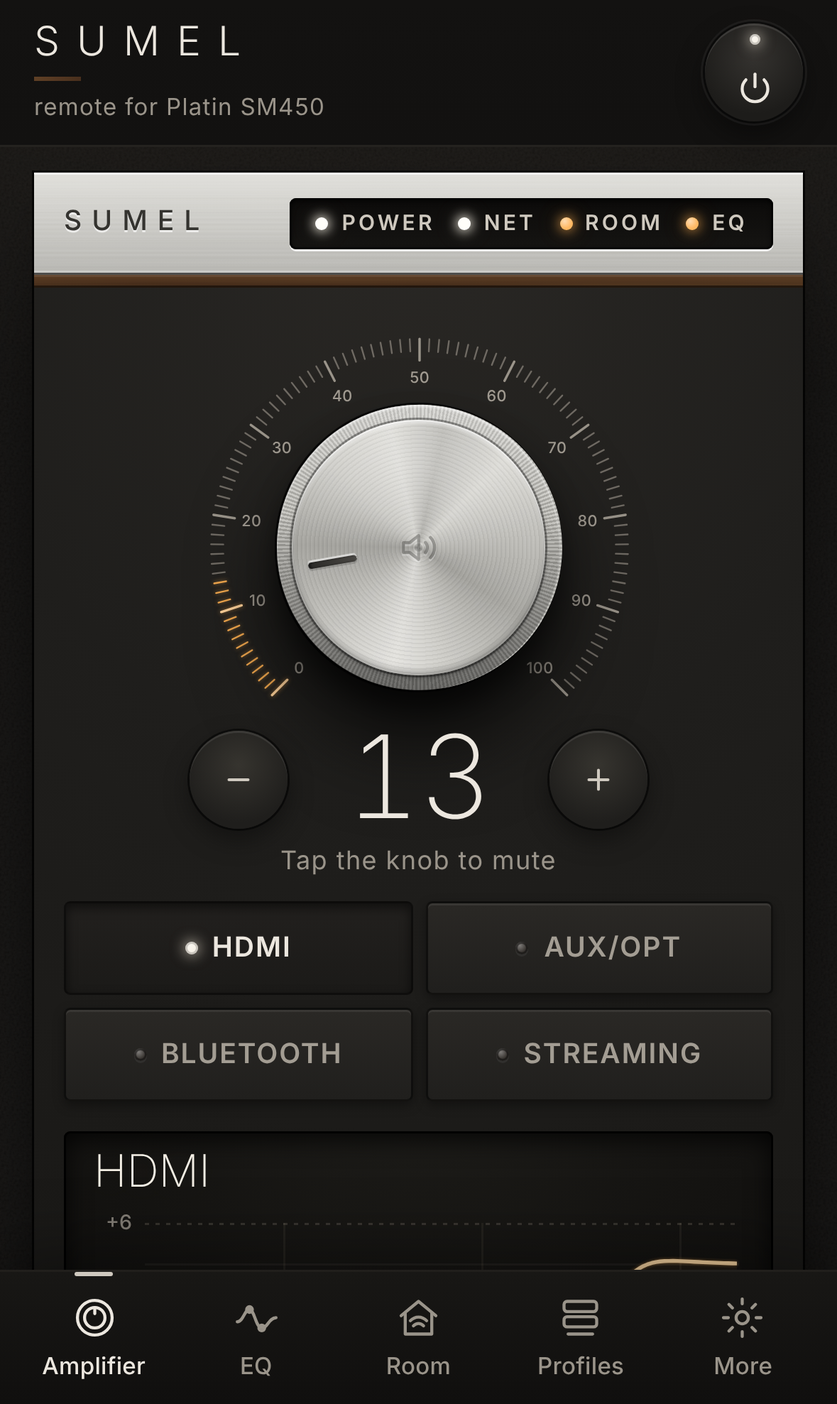
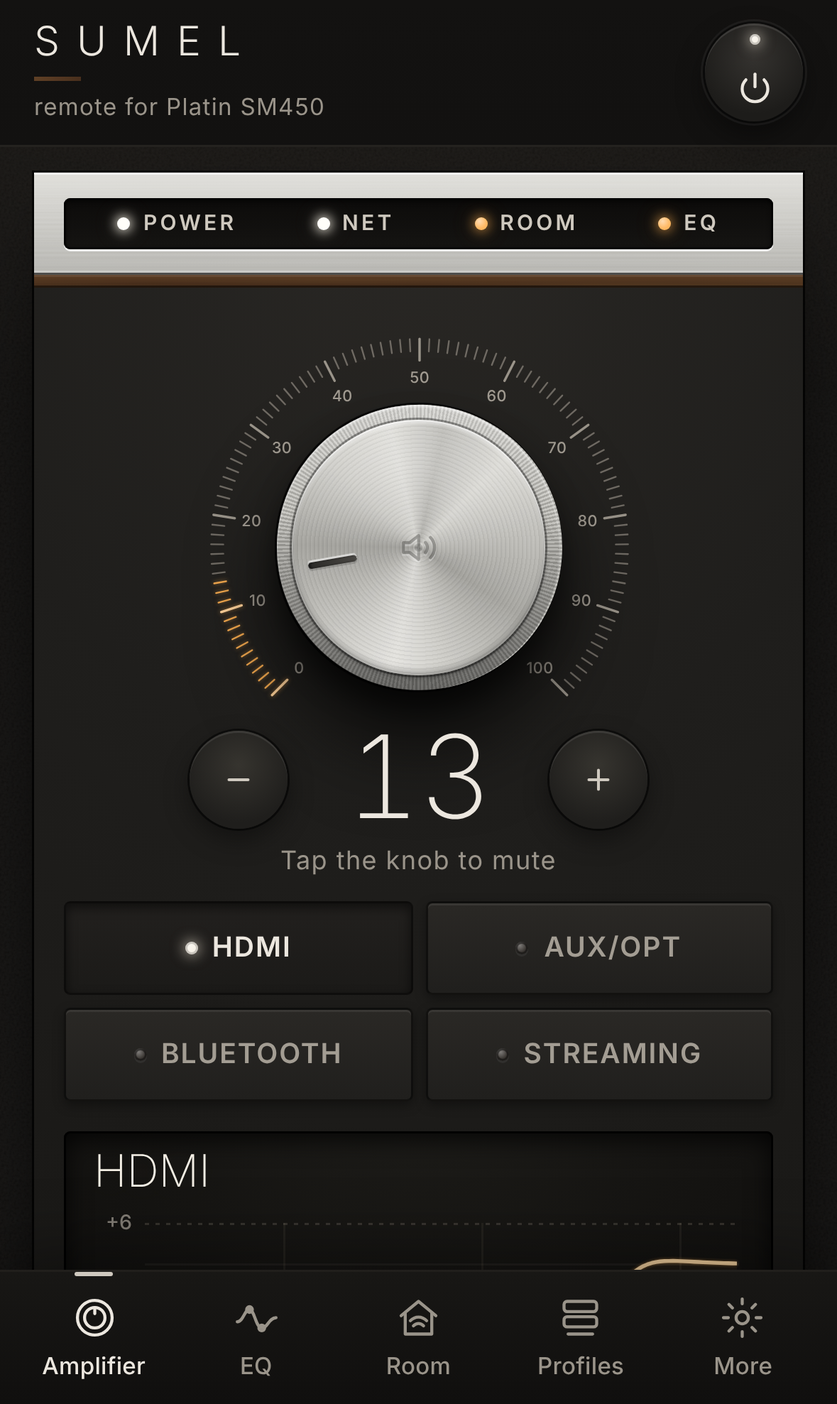
SUMEL 1.1.0: a tidier look
- Amplifier: equal-width profile buttons with All last, compact sound buttons
- Phone: transport buttons match the input buttons; the strip shows only the lamps
- Profiles: one row per profile; Room: one card with a single switch
- EQ: tips and keyboard behind a small link; More: settings first, Help last

Claude-Session: https://claude.ai/code/session_015qg7weUaN48gBux5nf1eYy

Changed region(s): [[0.0611, 0.1234, 0.3664, 0.1851], [0.3969, 0.1543, 0.8855, 0.1851]]

diff --git a/lemus_remote/static/index.html b/lemus_remote/static/index.html
@@ -128,8 +128,6 @@ main { max-width:1320px; margin:0 auto; padding:16px calc(16px + var(--safe-r)) 
 .card > h2::after, .sect::after { content:""; flex:1; height:1px; background:linear-gradient(90deg, var(--line-2), transparent); }
 .card > h2 .right, .sect .right { order:3; margin-left:auto; letter-spacing:.01em; text-transform:none; font-weight:500; }
 /* språkkortet: overskrift og velger på én linje, så kortet blir lavt */
-#langCard { display:flex; align-items:center; flex-wrap:wrap; gap:10px 14px; padding-top:12px; padding-bottom:12px; }
-#langCard > h2 { margin:0; flex:1 1 160px; }
 .page-title { margin:4px 2px 16px; }
 .page-title h1 { font-family:var(--display); font-weight:300; font-size:26px; letter-spacing:.01em; margin:0; }
 .page-title p { color:var(--muted); margin:4px 0 0; font-size:14px; max-width:62ch; }
@@ -667,9 +665,7 @@ body.locked .need-awake { opacity:.5; }
   /* ferdige profiler: to kolonner med samme rader som «Mine profiler» */
   .mine.cols { display:grid; grid-template-columns:1fr 1fr; column-gap:36px; align-items:start; }
   .mine.cols .mine-item:nth-child(2) { border-top:0; padding-top:0; }
-  .room-grid { grid-template-columns:1fr 1fr; gap:20px; grid-template-areas:"resp resp" "status data"; }
-  .room-grid > #roomResp { grid-area:resp; } .room-grid > #roomStatus { grid-area:status; }
-  .room-grid > #roomData { grid-area:data; }
+  .room-grid { gap:20px; }
   .room-grid #roomCanvas { height:260px !important; }
 }
 @media (min-width: 1000px) and (max-width: 1239px) {
@@ -866,6 +862,56 @@ html[data-front="alu"] .deck { padding:0; }
   .fp-ctrl .inputs .sel { display:grid; grid-auto-flow:column; grid-auto-columns:1fr; }
   .fp-ctrl .inputs .sel .src { justify-content:center; }
 }
+/* ---------------- Opprydding 1.1: jevne knapperader, færre gjentakelser */
+/* Profilknappene fyller brønnen i like brede kolonner, med «Alle» som siste knapp */
+.deck .chips { display:grid; grid-template-columns:repeat(auto-fit, minmax(92px, 1fr)); }
+.deck .chip { justify-content:center; min-width:0; }
+.deck .chip.all { color:var(--fg-2); }
+.deck .togs .tog { justify-content:center; }
+.deck .togs .tog .t { flex:none; }
+/* Rom: ett kort med bryter og «Les på nytt» på samme rad; lampen viser av/på */
+#langCard .seg { align-self:flex-start; }
+.bcount { align-self:center; margin-left:4px; }
+.room-row { display:flex; align-items:center; gap:12px; flex-wrap:wrap; }
+.room-row .tog { flex:1 1 280px; width:auto; }
+#togRoom2 .state { display:none; }
+/* Profiler: én rad per profil med knappene til høyre */
+.mine-item { grid-template-columns:96px minmax(0, 1fr) auto; }
+.mine-item .acts { grid-column:auto; justify-content:flex-end; flex-wrap:nowrap; }
+.mine-item .more { grid-column:1 / -1; justify-content:flex-end; padding:0; }
+.mine-item .more :is([data-a="del"], [data-a="reset"]) { margin-left:0; }
+.active-line .lbl { margin-right:6px; }
+/* Tips og tastatur: lukket som standard */
+details.tips { margin-top:10px; }
+details.tips > summary { cursor:pointer; font-size:12.5px; color:var(--faint); list-style:none; display:inline-flex; align-items:center; gap:6px; min-height:28px; }
+details.tips > summary::-webkit-details-marker { display:none; }
+details.tips > summary::before { content:"?"; width:16px; height:16px; border-radius:50%; display:grid; place-items:center; font-size:11px; font-weight:600; border:1px solid var(--line-2); color:var(--muted); }
+details.tips[open] > summary { color:var(--fg-2); }
+details.tips .hint { margin-top:4px; }
+@media (min-width: 1000px) {
+  .togs { grid-template-columns:repeat(2, 176px); }
+}
+@media (max-width: 999px) {
+  /* mobil og nettbrett: avspillingsknappene i samme stil som inngangsknappene */
+  .fp-ctrl .transport { gap:6px; padding:3px; border-radius:var(--radius-s); background:var(--well); border:1px solid var(--line); box-shadow:inset 0 1px 3px rgba(0,0,0,.6); width:100%; }
+  .fp-ctrl .transport .round, .fp-ctrl .transport .round.main { flex:1 1 0; width:auto; height:44px; border-radius:var(--radius-xs);
+    border:1px solid rgba(0,0,0,.55); background:linear-gradient(180deg, #2a2825, #201f1d); color:var(--muted);
+    box-shadow:inset 0 1px 0 rgba(255,255,255,.07), 0 2px 5px rgba(0,0,0,.35); }
+  .fp-ctrl .transport .round:active:not(:disabled) { background:linear-gradient(180deg, #22201e, #1b1a18); box-shadow:inset 0 2px 5px rgba(0,0,0,.55); }
+  .deck .chips { grid-template-columns:repeat(3, minmax(0, 1fr)); }
+  .deck .chip { font-size:10.5px; letter-spacing:.06em; padding:0 6px; white-space:nowrap; }
+  .deck .togs { grid-template-columns:1fr 1fr; }
+  .deck .tog { padding:0 8px; }
+  .deck .tog .t b { font-size:10.5px; letter-spacing:.08em; white-space:nowrap; overflow:hidden; text-overflow:ellipsis; }
+}
+@media (max-width: 520px) {
+  /* telefon: «SUMEL» står allerede øverst i appen – listen viser bare lampene, i full bredde */
+  html[data-front="alu"] .fp-mark { display:none; }
+  html[data-front="alu"] .fp-lamps { flex:1; margin-left:0; justify-content:space-around; }
+  .mine-item { grid-template-columns:72px minmax(0, 1fr) auto; gap:10px; }
+  .mine-item canvas { width:72px; height:40px; }
+  .mine-item .sub { display:-webkit-box; -webkit-line-clamp:2; -webkit-box-orient:vertical; overflow:hidden; }
+}
 </style>
 </head>
 <body>
@@ -966,7 +1012,6 @@ html[data-front="alu"] .deck { padding:0; }
     <section class="deck-sec" aria-label="Profil" data-i18n-aria="amp.profile">
       <h2 class="deck-h" data-i18n="amp.profile">Profil</h2>
       <div class="chips" id="quickProfiles"></div>
-      <button class="btn ghost sm deck-all" data-goto="profiles" data-i18n="amp.all">Alle</button>
     </section>
   </div>
 </section>
@@ -998,7 +1043,7 @@ html[data-front="alu"] .deck { padding:0; }
         <div class="stepper"><button data-qs="-1" aria-label="Ned" data-i18n-aria="eq.down">−</button><output id="qVal" aria-live="polite"></output><button data-qs="1" aria-label="Opp" data-i18n-aria="eq.up">+</button></div>
       </div>
       <div class="bandlist" id="bandlist" role="group" aria-label="EQ-punkter" data-i18n-aria="eq.points"></div>
-      <div class="hint" id="eqHint"><span class="kbd-only" data-i18n-html="eq.hintKbd">Dra punktene. Dobbeltklikk på en tom plass for et nytt punkt. Tastatur: <kbd>←</kbd><kbd>→</kbd> frekvens, <kbd>↑</kbd><kbd>↓</kbd> nivå, <kbd>[</kbd><kbd>]</kbd> Q, <kbd>Shift</kbd> større steg, <kbd>,</kbd><kbd>.</kbd> bytt punkt, <kbd>Del</kbd> slett.</span><span class="touch-only" data-i18n="eq.hintTouch">Dra punktene. Hold fingeren på en tom plass for et nytt punkt. Endringer skrives til høyttaleren og bekreftes.</span></div>
+      <details class="tips"><summary data-i18n="common.tips">Tips og tastatur</summary><div class="hint" id="eqHint"><span class="kbd-only" data-i18n-html="eq.hintKbd">Dra punktene. Dobbeltklikk på en tom plass for et nytt punkt. Tastatur: <kbd>←</kbd><kbd>→</kbd> frekvens, <kbd>↑</kbd><kbd>↓</kbd> nivå, <kbd>[</kbd><kbd>]</kbd> Q, <kbd>Shift</kbd> større steg, <kbd>,</kbd><kbd>.</kbd> bytt punkt, <kbd>Del</kbd> slett.</span><span class="touch-only" data-i18n="eq.hintTouch">Dra punktene. Hold fingeren på en tom plass for et nytt punkt. Endringer skrives til høyttaleren og bekreftes.</span></div></details>
     </div>
     <div class="stack">
       <div class="card" id="inspector">
@@ -1057,14 +1102,14 @@ html[data-front="alu"] .deck { padding:0; }
         <span id="curveConfirmText"></span>
         <div class="row" style="margin-top:10px"><button type="button" class="btn sm alu" id="curveConfirmYes" data-i18n="curve.replace">Erstatt</button><button type="button" class="btn sm ghost" id="curveConfirmNo" data-i18n="common.cancel">Avbryt</button></div>
       </div>
-      <div class="hint"><span class="kbd-only" data-i18n-html="curve.hintKbd">Dra punktene rett opp og ned (±12 dB). Dobbeltklikk på et punkt setter det til 0. Tastatur: <kbd>←</kbd><kbd>→</kbd> velg punkt, <kbd>↑</kbd><kbd>↓</kbd> ±0,5 dB, <kbd>Shift</kbd> større steg, <kbd>0</kbd> til 0.</span><span class="touch-only" data-i18n="curve.hintTouch">Dra punktene rett opp og ned (±12 dB). Dobbelttrykk setter et punkt til 0. Ingenting sendes til høyttaleren før du trykker «Bruk».</span></div>
+      <details class="tips"><summary data-i18n="common.tips">Tips og tastatur</summary><div class="hint"><span class="kbd-only" data-i18n-html="curve.hintKbd">Dra punktene rett opp og ned (±12 dB). Dobbeltklikk på et punkt setter det til 0. Tastatur: <kbd>←</kbd><kbd>→</kbd> velg punkt, <kbd>↑</kbd><kbd>↓</kbd> ±0,5 dB, <kbd>Shift</kbd> større steg, <kbd>0</kbd> til 0.</span><span class="touch-only" data-i18n="curve.hintTouch">Dra punktene rett opp og ned (±12 dB). Dobbelttrykk setter et punkt til 0. Ingenting sendes til høyttaleren før du trykker «Bruk».</span></div>
+        <p class="small muted" style="margin:8px 0 0" data-i18n="curve.explain">SM450 har plass til tre filtre. Appen prøver parametriske filtre og bass- og diskantfiltre (shelving) med ulike frekvenser og bredder og velger de som til sammen ligger nærmest kurven din. Ingenting sendes til høyttaleren før du trykker «Bruk».</p></details>
     </div>
     <div class="stack">
       <div class="card" id="fitCard">
         <h2 data-i18n="curve.filters">Filtrene</h2>
         <div class="fit-head"><span class="big num" id="fitErr">–</span><span class="small muted" id="fitErrLbl"></span></div>
         <div class="fit-list" id="fitList"></div>
-        <p class="small muted" style="margin:12px 0 0" data-i18n="curve.explain">SM450 har plass til tre filtre. Appen prøver parametriske filtre og bass- og diskantfiltre (shelving) med ulike frekvenser og bredder og velger de som til sammen ligger nærmest kurven din. Ingenting sendes til høyttaleren før du trykker «Bruk».</p>
       </div>
       <div class="card">
         <h2 data-i18n="curve.saveTitle">Lagre som profil</h2>
@@ -1096,16 +1141,12 @@ html[data-front="alu"] .deck { padding:0; }
       <p class="small muted" style="margin-top:10px;margin-bottom:0" data-i18n="room.respNote">Romkorreksjonen virker bare under ca. 550 Hz. Høyttaleren lagrer målingen bare under det, så kurvene er flate over 550 Hz (det betyr ikke at rommet er flatt der). Toppene vises uglattet og kan derfor se høyere ut.</p>
     </div>
     <div class="card" id="roomStatus">
-      <h2 data-i18n="room.status">Status</h2>
-      <button class="tog" id="togRoom2" role="switch" aria-checked="false" data-need="awake">
-        <span class="lamp"></span><span class="t"><b data-i18n="sw.room">Romkorreksjon</b><small id="roomSmall"></small></span><span class="state">–</span>
-      </button>
-      <div class="note" style="margin-top:12px" data-i18n="room.note">Målingen ligger i høyttaleren og beholdes når du slår korreksjonen av. Egen EQ ligger alltid oppå romkorreksjonen og påvirkes ikke av denne bryteren.</div>
-    </div>
-    <div class="card" id="roomData">
-      <h2 data-i18n="room.data">Målingen</h2>
-      <p class="small muted" data-i18n="room.dataLead">SUMEL leser målingen når den kobler til høyttaleren. Knappen leser den på nytt.</p>
-      <div class="row"><button class="btn" id="roomRead" data-need="online" data-i18n="room.read">Les målingen på nytt</button><span class="saving" id="roomReadState"></span></div>
+      <div class="room-row">
+        <button class="tog" id="togRoom2" role="switch" aria-checked="false" data-need="awake">
+          <span class="lamp"></span><span class="t"><b data-i18n="sw.room">Romkorreksjon</b><small id="roomSmall"></small></span><span class="state">–</span>
+        </button>
+        <button class="btn" id="roomRead" data-need="online" data-i18n="room.read">Les målingen på nytt</button><span class="saving" id="roomReadState"></span>
+      </div>
       <details class="raw" id="sparkDetails" style="margin-top:14px" hidden>
         <summary class="small muted" data-i18n="room.rawShow">Vis rådata</summary>
         <div id="sparkBox" style="margin-top:10px">
@@ -1159,22 +1200,15 @@ html[data-front="alu"] .deck { padding:0; }
 <!-- ===================================================== MER -->
 <section class="view" id="view-more" aria-label="Mer" data-i18n-aria="nav.more">
   <div class="page-title"><h1 data-i18n="nav.more">Mer</h1><p data-i18n="more.lead">Hjelp, høyttaler og tilkobling.</p></div>
-  <div class="card faq" id="helpCard">
-    <h2 data-i18n="help.title">Hjelp</h2>
-    <details id="helpPhone"><summary data-i18n="help.q1">iPhone får ikke kontakt</summary><div class="ans" data-i18n-html="help.a1"><ul><li>iPhone og PC-en må være på samme nettverk (samme ruter), og PC-en må være våken.</li><li>Noen rutere holder Wi-Fi-enheter fra hverandre. Koble da PC-en til ruteren med kabel, eller bruk Tailscale på både PC-en og iPhone.</li><li>Windows-brannmuren og Norton eller annet antivirus må tillate SUMEL. Velg «Tillat» når de spør, eller legg SUMEL til som unntak.</li></ul></div></details>
-    <details id="helpFind"><summary data-i18n="help.q2">«Finn høyttaleren» finner ingenting</summary><div class="ans" data-i18n-html="help.a2"><p>Sjekk at høyttaleren har strøm og er koblet til samme nettverk som PC-en.</p><p>Skriv så høyttalerens IP-adresse under «Tilkobling», for eksempel 192.168.0.6. Adressen står i ruterens liste over tilkoblede enheter.</p></div></details>
-    <details id="helpTone"><summary data-i18n="help.q3">Hvorfor endrer tonehjulene EQ-en?</summary><div class="ans" data-i18n-html="help.a3"><p>SM450 har plass til tre filtre. Tonehjulene og EQ-fanen deler de samme tre. Drar du et tonehjul mens EQ-en har en kurve eller egne punkter, gjøres den om til bass, mellomtone og diskant, slik at lyden endres minst mulig. Du kan alltid angre.</p></div></details>
-    <details id="helpMode"><summary data-i18n="help.q4">Kurve eller Punkter?</summary><div class="ans" data-i18n-html="help.a4"><p><b>Kurve:</b> tegn lyden du vil ha med ti punkter, så finner appen de tre filtrene som passer best. Ingenting sendes før du trykker «Bruk».</p><p><b>Punkter:</b> still de tre filtrene direkte, med frekvens, nivå og bredde. Hver endring sendes med en gang.</p></div></details>
-  </div>
-  <div class="two" style="margin-top:14px">
+  <div class="two">
     <div class="stack">
-      <div class="card" id="langCard">
-        <h2>Språk / Language</h2>
-        <div class="seg" role="group" aria-label="Språk / Language" id="langSeg"><button type="button" data-lang="no" lang="nb" aria-pressed="false">Norsk</button><button type="button" data-lang="en" lang="en" aria-pressed="false">English</button></div>
-      </div>
       <div class="card" id="lookCard">
-        <h2 data-i18n="more.look">Utseende</h2>
-        <div class="field">
+        <h2 data-i18n="more.look">Utseende og språk</h2>
+        <div class="field" id="langCard">
+          <span>Språk / Language</span>
+          <div class="seg" role="group" aria-label="Språk / Language" id="langSeg"><button type="button" data-lang="no" lang="nb" aria-pressed="false">Norsk</button><button type="button" data-lang="en" lang="en" aria-pressed="false">English</button></div>
+        </div>
+        <div class="field" style="margin-top:14px">
           <span id="frontLbl" data-i18n="more.front">Frontplate</span>
           <div class="seg" role="group" aria-labelledby="frontLbl" id="frontSeg"><button type="button" data-front-opt="alu" aria-pressed="true" data-i18n="more.frontAlu">Med aluminiumslist</button><button type="button" data-front-opt="plain" aria-pressed="false" data-i18n="more.frontPlain">Uten aluminiumslist</button></div>
         </div>
@@ -1227,6 +1261,13 @@ html[data-front="alu"] .deck { padding:0; }
     </div>
   </div>
 
+  <div class="card faq" id="helpCard" style="margin-top:14px">
+    <h2 data-i18n="help.title">Hjelp</h2>
+    <details id="helpPhone"><summary data-i18n="help.q1">iPhone får ikke kontakt</summary><div class="ans" data-i18n-html="help.a1"><ul><li>iPhone og PC-en må være på samme nettverk (samme ruter), og PC-en må være våken.</li><li>Noen rutere holder Wi-Fi-enheter fra hverandre. Koble da PC-en til ruteren med kabel, eller bruk Tailscale på både PC-en og iPhone.</li><li>Windows-brannmuren og Norton eller annet antivirus må tillate SUMEL. Velg «Tillat» når de spør, eller legg SUMEL til som unntak.</li></ul></div></details>
+    <details id="helpFind"><summary data-i18n="help.q2">«Finn høyttaleren» finner ingenting</summary><div class="ans" data-i18n-html="help.a2"><p>Sjekk at høyttaleren har strøm og er koblet til samme nettverk som PC-en.</p><p>Skriv så høyttalerens IP-adresse under «Tilkobling», for eksempel 192.168.0.6. Adressen står i ruterens liste over tilkoblede enheter.</p></div></details>
+    <details id="helpTone"><summary data-i18n="help.q3">Hvorfor endrer tonehjulene EQ-en?</summary><div class="ans" data-i18n-html="help.a3"><p>SM450 har plass til tre filtre. Tonehjulene og EQ-fanen deler de samme tre. Drar du et tonehjul mens EQ-en har en kurve eller egne punkter, gjøres den om til bass, mellomtone og diskant, slik at lyden endres minst mulig. Du kan alltid angre.</p></div></details>
+    <details id="helpMode"><summary data-i18n="help.q4">Kurve eller Punkter?</summary><div class="ans" data-i18n-html="help.a4"><p><b>Kurve:</b> tegn lyden du vil ha med ti punkter, så finner appen de tre filtrene som passer best. Ingenting sendes før du trykker «Bruk».</p><p><b>Punkter:</b> still de tre filtrene direkte, med frekvens, nivå og bredde. Hver endring sendes med en gang.</p></div></details>
+  </div>
   <details class="expert" id="expert">
     <summary><span data-i18n="more.expert">Ekspert og feilsøking</span><span class="chev" aria-hidden="true"></span></summary>
     <div class="two">
@@ -1237,6 +1278,7 @@ html[data-front="alu"] .deck { padding:0; }
           <div class="note" style="margin-top:12px" data-i18n="more.typesNote">Slik lærer appen flere typer: lag eller lagre et filter av typen (for eksempel 6 dB høypass eller lavpass) i Platin-appen mens SUMEL kjører på PC-en. Appen logger da hvordan høyttaleren lagrer filteret, og typen blir skrivbar her.</div>
           <div class="sect" style="margin-top:18px" data-i18n="more.learnLog">Læringslogg</div>
           <div id="learnLog" class="small muted"></div>
+          <p class="small muted" id="verifiedLine" style="margin:14px 0 0"></p>
         </div>
       </div>
       <div class="stack">
@@ -1255,7 +1297,7 @@ html[data-front="alu"] .deck { padding:0; }
       </div>
     </div>
   </details>
-  <p class="small muted" id="aboutLine" style="margin:22px 4px 8px;opacity:.75"><b>SUMEL</b> 1.0.1 · <span data-i18n="about.tag">fjernkontroll for Platin SM450</span><br><i data-i18n="about.why">Utviklet grunnet irritasjon på dårlige eller ikke-eksisterende apper. =)</i></p>
+  <p class="small muted" id="aboutLine" style="margin:22px 4px 8px;opacity:.75"><b>SUMEL</b> 1.1.0 · <span data-i18n="about.tag">fjernkontroll for Platin SM450</span><br><i data-i18n="about.why">Utviklet grunnet irritasjon på dårlige eller ikke-eksisterende apper. =)</i></p>
 </section>
 </main>
 <div id="toasts" aria-live="polite"></div>
@@ -1351,7 +1393,7 @@ const I18N = {
     "prof.resetTitle": "Sett profilen tilbake slik den var fra start", "toast.reset": "«{name}» er tilbakestilt til standard",
     "toast.renamed": "Nytt navn lagret", "toast.updated": "«{name}» er oppdatert med innstillingene nå", "toast.reverted": "«{name}» er satt tilbake",
     "toast.duplicated": "Profilen er duplisert", "toast.deleted": "«{name}» er slettet",
-    "act.label": "Aktivt i høyttaleren:", "act.matches": "samsvarer med {names}.", "act.custom": "egen innstilling – samsvarer ikke med en lagret profil.",
+    "amp.all": "Alle", "act.label": "Aktiv nå:", "act.matches": "{names}", "act.custom": "Egen innstilling",
     "act.writable": "{n} skrivbare punkt", "act.ro": ", {n} punkt av typer appen ikke kan skrive ennå (røres ikke av profiler)",
     "act.outside": ", {n} punkt utenfor de tre plassene SUMEL kan bruke (røres ikke)", "act.notRead": "EQ-en er ikke lest ennå.",
     "act.room": v => `romkorreksjon ${v.on ? "på" : "av"}`, "act.eq": v => `egen EQ ${v.on ? "på" : "av"}`,
@@ -1459,7 +1501,7 @@ const I18N = {
     "prof.namePh": "Name, e.g. “Movie night”", "prof.nameAria": "Name of new profile", "prof.saveCurrent": "Save current",
     "prof.backup": "Backup", "prof.backupLead": "Downloads your profiles, the EQ bands in the speaker and learned filter formats as one file.",
     "prof.download": "Download", "prof.restoreDots": "Restore …", "prof.restoreApply": "Also write the EQ bands from the file to the speaker", "prof.restore": "Restore",
-    "more.look": "Appearance", "more.front": "Front panel", "more.frontPlain": "Without aluminium strip", "more.frontAlu": "With aluminium strip", "about.tag": "remote for Platin SM450", "about.why": "Made out of frustration with poor or non-existent apps. =)",
+    "more.look": "Appearance and language", "more.front": "Front panel", "more.frontPlain": "Without aluminium strip", "more.frontAlu": "With aluminium strip", "about.tag": "remote for Platin SM450", "about.why": "Made out of frustration with poor or non-existent apps. =)",
     "more.frontNote": "Only applies to this device.",
     "more.lead": "Help, speaker and connection.", "more.speaker": "Speaker", "more.iphone": "Use on iPhone",
     "more.iphoneLead": "The iPhone must be on the same network as the PC.",
@@ -1550,7 +1592,7 @@ const I18N = {
     "prof.resetTitle": "Set the profile back to how it came", "toast.reset": "“{name}” reset to default",
     "toast.renamed": "New name saved", "toast.updated": "“{name}” updated with the current settings", "toast.reverted": "“{name}” restored",
     "toast.duplicated": "Profile duplicated", "toast.deleted": "“{name}” deleted",
-    "act.label": "Active in the speaker:", "act.matches": "matches {names}.", "act.custom": "custom setting – doesn’t match a saved profile.",
+    "act.label": "Active now:", "act.matches": "{names}", "act.custom": "Custom setting",
     "act.writable": v => `${v.n} writable point${v.n === 1 ? "" : "s"}`, "act.ro": v => `, ${v.n} point${v.n === 1 ? "" : "s"} of types the app can’t write yet (left alone by profiles)`,
     "act.outside": v => `, ${v.n} point${v.n === 1 ? "" : "s"} outside the three slots SUMEL can use (left alone)`, "act.notRead": "the EQ hasn’t been read yet.",
     "act.room": v => `room correction\u00a0${v.on ? "on" : "off"}`, "act.eq": v => `custom EQ\u00a0${v.on ? "on" : "off"}`,
@@ -1566,7 +1608,7 @@ const I18N = {
     "roomread.reading": "Reading …", "roomread.done": "Read", "roomread.none": "No data received", "spark.meta": "{n} values · {mn}–{mx}",
     "feat.manual_eq": "Custom EQ", "feat.room_correction": "Room correction", "feat.volume": "Volume", "feat.transport": "Playback",
     "feat.eq_bands": "EQ points", "feat.power": "Power", "feat.source": "Input",
-    "info.name": "Name", "info.amp": "Amplifier", "info.address": "Address", "info.firmware": "Firmware", "info.verified": "Tested on Lemus HOME 1500", "eq.notRead": "The speaker’s EQ hasn’t been read yet (it may be waking from standby). Try again in a few seconds.", "prof.confirmReplace": v => `“${v.name}” replaces the ${v.n === 1 ? "filter" : `${v.n} filters`} in the speaker now. You can undo afterwards.`,
+    "info.name": "Name", "info.amp": "Amplifier", "info.address": "Address", "info.firmware": "Firmware", "info.verified": "Tested on Lemus HOME 1500", "common.tips": "Tips and keyboard", "eq.notRead": "The speaker’s EQ hasn’t been read yet (it may be waking from standby). Try again in a few seconds.", "prof.confirmReplace": v => `“${v.name}” replaces the ${v.n === 1 ? "filter" : `${v.n} filters`} in the speaker now. You can undo afterwards.`,
     "prof.noRoom": v => `The profile “${v.name}” has ${v.n} filter${v.n === 1 ? "" : "s"}, but ${v.m === 0 ? "no slots are free" : v.m === 1 ? "only one slot is free" : "only " + v.m + " slots are free"} because ${v.list} ${v.k === 1 ? "is" : "are"} kept.`,
     "host.auto": "Finds the speaker automatically{now}.", "host.autoNow": " (now {host})", "host.fixed": "Fixed address {host}.",
     "types.level": "level", "types.freqOnly": "frequency only", "types.learned": "Writable · learned", "types.writable": "Writable", "types.learnedTip": "The formula was learned from the Platin app and checked against the speaker (bit for bit).", "types.notYet": "Not yet",
@@ -2759,7 +2801,7 @@ function drawRoom() {
   $("#roomEmpty").hidden = !!rc;
   for (const k of ["lg-m", "lg-r"]) $("#roomLegendBox ." + k).hidden = !rc;
   const none = !!(S && S.room_curve_empty), tag = $("#roomTag"), tt = !S ? "" : none ? t("room.tagNone") : roomOn ? t("room.tagOn") : t("room.tagOff");
-  if (tag.textContent !== tt) tag.textContent = tt; tag.hidden = !tt; tag.className = "tag" + (roomOn && !none ? " amber" : "");
+  if (tag.textContent !== tt) tag.textContent = tt; tag.hidden = !tt || !none; tag.className = "tag" + (roomOn && !none ? " amber" : "");
   $("#roomLegend").textContent = !eqOn ? t("room.legendOff") : "";
   // «Les målingen» til noe er lest, deretter «… på nytt»
   const rb = $("#roomRead"), rk = S && S.room_curve_raw ? "room.read" : "room.readCurve";
@@ -2926,7 +2968,7 @@ function renderBandList() {
     box.appendChild(el);
   }
   const cnt = document.createElement("span");
-  cnt.className = "muted small"; cnt.textContent = t("bl.count", { n: list.filter(inSlots).length, max: MAX_BANDS });
+  cnt.className = "muted small bcount"; cnt.textContent = t("bl.count", { n: list.filter(inSlots).length, max: MAX_BANDS });
   box.appendChild(cnt);
 }
 
@@ -3672,7 +3714,9 @@ function bandSummary(p) {
 // én profilrad: Bruk, Oppdater, Gi nytt navn, Dupliser, og Slett (egne) eller Tilbakestill til standard (endrede ferdige)
 function profItem(p, act, lit, keep) {
   const on = act.includes(p.id), it = document.createElement("div"); it.className = "mine-item"; it.dataset.id = p.id;
-  const meta = [p.builtin ? profDesc(p) : null, bandSummary(p), p.room_correction != null ? t("prof.metaRoom", { on: p.room_correction }) : null, p.manual_eq != null ? t("prof.metaEq", { on: p.manual_eq }) : null, p.saved && (!p.builtin || p.modified) ? t("prof.metaSaved", { d: p.saved }) : null].filter(Boolean).join(" · ");
+  // ferdige profiler: bare beskrivelsen; egne: antall punkt og når den ble lagret
+  const meta = (p.builtin ? [profDesc(p), p.modified && p.saved ? t("prof.metaSaved", { d: p.saved }) : null]
+    : [bandSummary(p), p.saved ? t("prof.metaSaved", { d: p.saved }) : null]).filter(Boolean).join(" · ");
   const off = on && eqOffShown(p), nm = profName(p);
   const tags = (p.builtin && p.modified ? `<span class="tag" title="${esc(t("prof.modifiedTitle"))}">${esc(t("prof.modified"))}</span>` : "")
     + (on ? (off ? `<span class="tag" title="${esc(t("prof.eqOffTitle"))}"><span class="lamp${lit ? " white" : ""}"></span>${esc(t("prof.active"))} <small>${esc(t("prof.eqOff"))}</small></span>`
@@ -3771,11 +3815,14 @@ function renderProfiles(force) {
     const b = document.createElement("button"); const on = act.includes(p.id);
     b.className = "chip" + (profBusy === p.id ? " busy" : ""); b.setAttribute("aria-pressed", String(on)); b.disabled = !lit || !!profBusy;
     const off = on && eqOffShown(p);
-    b.innerHTML = `<span class="lamp${on && lit ? (off ? " white" : " on") : ""}${profBusy === p.id ? " on breath" : ""}"></span>${esc(profName(p))}${off ? ` <small>${esc(t("prof.eqOff"))}</small>` : ""}`;
+    b.innerHTML = `<span class="lamp${on && lit ? (off ? " white" : " on") : ""}${profBusy === p.id ? " on breath" : ""}"></span>${esc(profName(p))}`;   // «EQ av» vises av lampene (EQ-lampen og knappen Egen EQ), ikke som tekst her
     if (off) b.title = t("prof.eqOffTitle"); else b.removeAttribute("title");
     b.onclick = () => applyProfile(p.id);
     q.appendChild(b);
   }
+  // siste knapp i raden: til Profiler-fanen
+  const allBtn = document.createElement("button"); allBtn.className = "chip all"; allBtn.type = "button";
+  allBtn.textContent = t("amp.all"); allBtn.onclick = () => go("profiles"); q.appendChild(allBtn);
   // ferdige og egne har de samme radene; et åpent navnefelt beholder teksten og markeringen når listen tegnes på nytt
   let keep = null;
   const oldInp = document.querySelector("#view-profiles form.rn input");
@@ -3792,7 +3839,7 @@ function renderProfiles(force) {
   const out = all.filter(b => !b.editable && b.ix >= MAX_BANDS).length, ro = all.length - ed - out;
   // EQ-en ikke lest ennå: ingen profil er aktiv, og antallet punkt er ukjent
   $("#activeNow").innerHTML = !S ? "" : S.bands_known === false ? `<span class="lbl">${esc(t("act.label"))}</span>${esc(t("act.notRead"))}`
-    : `<span class="lbl">${esc(t("act.label"))}</span>${names.length ? esc(t("act.matches", { names: names.join(", ") })) : esc(t("act.custom"))}<br><span class="muted small">${esc(t("act.writable", { n: ed }))}${ro ? esc(t("act.ro", { n: ro })) : ""}${out ? esc(t("act.outside", { n: out })) : ""} · ${esc(t("act.room", { on: S.room_correction }))} · ${esc(t("act.eq", { on: S.manual_eq }))}</span>`;
+    : `<span class="lbl">${esc(t("act.label"))}</span>${names.length ? esc(t("act.matches", { names: names.join(", ") })) : esc(t("act.custom"))}${ro || out ? `<br><span class="muted small">${esc(t("act.writable", { n: ed }))}${ro ? esc(t("act.ro", { n: ro })) : ""}${out ? esc(t("act.outside", { n: out })) : ""} · ${esc(t("act.room", { on: S.room_correction }))} · ${esc(t("act.eq", { on: S.manual_eq }))}</span>` : ""}`;
   renderAB(); renderDisplay(); renderToneNote();
 }
 $("#saveForm").onsubmit = async ev => {
@@ -3921,8 +3968,8 @@ function renderMore() {
   const sig = JSON.stringify([LANG, S.name, S.host, v, S.verified, st, S.eq_types, S.learn_events, S.can_disable_band, S.connected, S.searching]);
   if (sig === moreSig) return; moreSig = sig;
   const rows = [[t("info.name"), S.name], [t("info.amp"), "Platin SM450"], [t("info.address"), S.host || "–"],
-    [t("info.firmware"), [v.mcu && "MCU " + v.mcu, v.ls9 && "LS9 " + v.ls9, v.cast && "Cast " + v.cast].filter(Boolean).join(" · ") || "–"],
-    [t("info.verified"), S.connected ? (S.verified || []).map(f => FEATURE_KEYS.includes(f) ? t("feat." + f) : f).join(", ") || "–" : "–"]];
+    [t("info.firmware"), [v.mcu && "MCU " + v.mcu, v.ls9 && "LS9 " + v.ls9, v.cast && "Cast " + v.cast].filter(Boolean).join(" · ") || "–"]];
+  $("#verifiedLine").textContent = t("info.verified") + ": " + (S.connected ? (S.verified || []).map(f => FEATURE_KEYS.includes(f) ? t("feat." + f) : f).join(", ") || "–" : "–");
   $("#info").innerHTML = rows.map(([k, x]) => `<dt>${esc(k)}</dt><dd>${esc(x || "–")}</dd>`).join("");
   $("#fpModel").textContent = !S.name ? "Platin SM450" : /SM\s?450/i.test(S.name) ? String(S.name) : String(S.name) + " · Platin SM450";
   const lan = st.lan_url || location.origin;

diff --git a/tests/test_tray.py b/tests/test_tray.py
@@ -37,7 +37,7 @@ class Version(unittest.TestCase):
         self.assertIn("SUMEL", out.getvalue())
 
     def test_version_number(self):
-        self.assertEqual(__version__, "1.0.1")
+        self.assertEqual(__version__, "1.1.0")
         # «Om SUMEL» i appen viser samme versjon
         from pathlib import Path
         html = (Path(__file__).resolve().parents[1] / "lemus_remote" / "static" / "index.html").read_text(encoding="utf-8")

diff --git a/lemus_remote/__init__.py b/lemus_remote/__init__.py
@@ -1,3 +1,3 @@
 """SUMEL – uoffisiell lokal webfjernkontroll for Platin SM450 (Lemus HOME)."""
 
-__version__ = "1.0.1"
+__version__ = "1.1.0"

diff --git a/CHANGELOG.md b/CHANGELOG.md
@@ -4,6 +4,19 @@ All notable changes to SUMEL, newest first. The format is based on [Keep a Chang
 
 Downloads are on the [releases page](https://github.com/erognmo-afk/SUMEL-platin-sm450-remote/releases).
 
+## [1.1.0] - 2026-11-10
+
+A tidier look. Nothing works differently.
+
+### Changed
+
+- **Amplifier:** the profile buttons have the same width and fill the row, with **All** as the last button. Room correction and Custom EQ are two compact buttons. A profile button no longer says "EQ off"; the lamps show it.
+- **Phone:** the previous/play/next buttons match the input buttons, and the aluminium strip shows only the lamps.
+- **Profiles:** one row per profile with **Use** and **…** on the right, and a short "Active now" line.
+- **Room:** one card with a single switch (the lamp shows on/off) and **Read the measurement again**.
+- **EQ:** keyboard shortcuts and the explanation of the filters are behind a small **Tips and keyboard** link.
+- **More:** settings first and Help last. Language and Appearance share one card.
+
 ## [1.0.1] - 2026-11-09
 
 ### Changed
@@ -121,6 +134,7 @@ Development under the name Lemus Remote, before the public release. Not released
 - English and Norwegian, and a home-screen app on phones.
 - **0.9.0:** Curve EQ, the stored room curve, wider tone controls, and a Windows program with a tray icon and installer.
 
+[1.1.0]: https://github.com/erognmo-afk/SUMEL-platin-sm450-remote/releases/tag/v1.1.0
 [1.0.1]: https://github.com/erognmo-afk/SUMEL-platin-sm450-remote/releases/tag/v1.0.1
 [1.0.0]: https://github.com/erognmo-afk/SUMEL-platin-sm450-remote/releases/tag/v1.0.0
 [0.10.1]: https://github.com/erognmo-afk/SUMEL-platin-sm450-remote/releases/tag/v0.10.1
